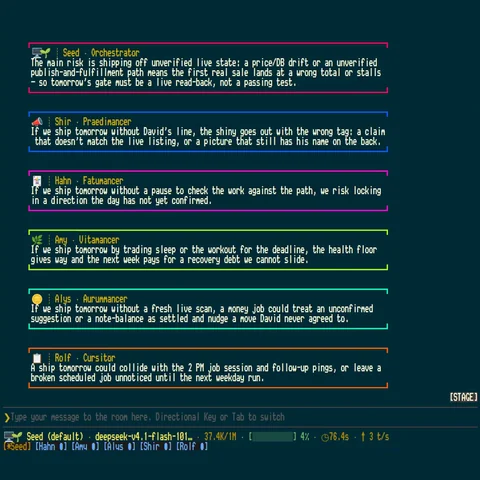
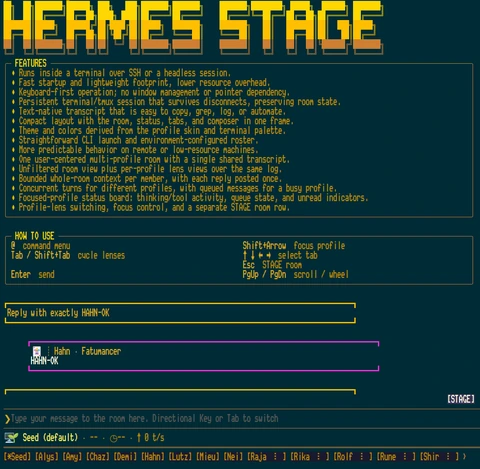
Use Hermes Stage main screen still as hero and cover

diff --git a/src/static/style.css b/src/static/style.css
@@ -173,5 +173,12 @@ a:hover .ar.al,a:focus-visible .ar.al{animation-name:nudgel}
 .feat-toggle:hover,.feat-toggle:focus-visible{color:#fff;border-color:rgba(255,255,255,.35)}
 .feat-toggle .ico{width:10px;height:12px;border-left:3px solid currentColor;border-right:3px solid currentColor;box-sizing:border-box}
 .feat-toggle[data-paused="1"] .ico{border-right:0;border-left:0;width:0;height:0;border-top:6px solid transparent;border-bottom:6px solid transparent;border-left:10px solid currentColor}
+/* Hermes Stage still: show the ASCII header and conversation in the featured tile */
+.tile.hs-still .ph{background:#002b36}
+.tile.hs-still .ph img{object-fit:contain;object-position:center center}
+.tile.hs-still::before{background:linear-gradient(180deg,transparent 70%,rgba(5,7,13,.88) 84%,rgba(5,7,13,.96))}
+@media(max-width:720px){.tile.hs-still.h2{grid-row:span 2}}
+.stage.fit{background:#002b36}
+.stage.fit img{width:auto;max-width:100%;height:auto;max-height:78vh;object-fit:contain}
 /* touch screens: always show tools list */
 @media (hover:none){.tile .tools{max-height:40px;opacity:1}}

diff --git a/src/build.py b/src/build.py
@@ -62,7 +62,7 @@ def srcset(src, root=''):
 
 
 def tile(p, size, root=''):
-    cls = ' '.join(x for x in ('tile rv', size, 'contain' if p['contain'] else '') if x)
+    cls = ' '.join(x for x in ('tile rv', size, 'contain' if p['contain'] else '', p.get('tile_class', '')) if x)
     cv = p['cover']
     sizes = TILE_SIZES['wide' if 'w8' in size else 'normal']
     im = img(cv['src'], cv['w'], cv['h'], p['title'] + ' cover', root, pixel=p['pixel'],
@@ -145,7 +145,7 @@ def build_projects():
         pv, nx = PROJECTS[i - 1], PROJECTS[(i + 1) % n]
         hero = p['hero']
         body = render('project', hero_src=hero['src'], category=p['category'], title=E(p['title']),
-                      stage_cls=' pix' if p['pixel'] else '',
+                      stage_cls=(' ' + ' '.join(x for x in ('pix' if p['pixel'] else '', 'fit' if p.get('hero_fit') else '') if x)).rstrip() or '',
                       hero_img=img(hero['src'], hero['w'], hero['h'], hero['alt'], '../', eager=True, pixel=p['pixel']),
                       summary=E(p['summary']), chips=''.join(f'<span>{E(t)}</span>' for t in p['tools']),
                       media=''.join(media_block(b, p) for b in p['blocks']),
